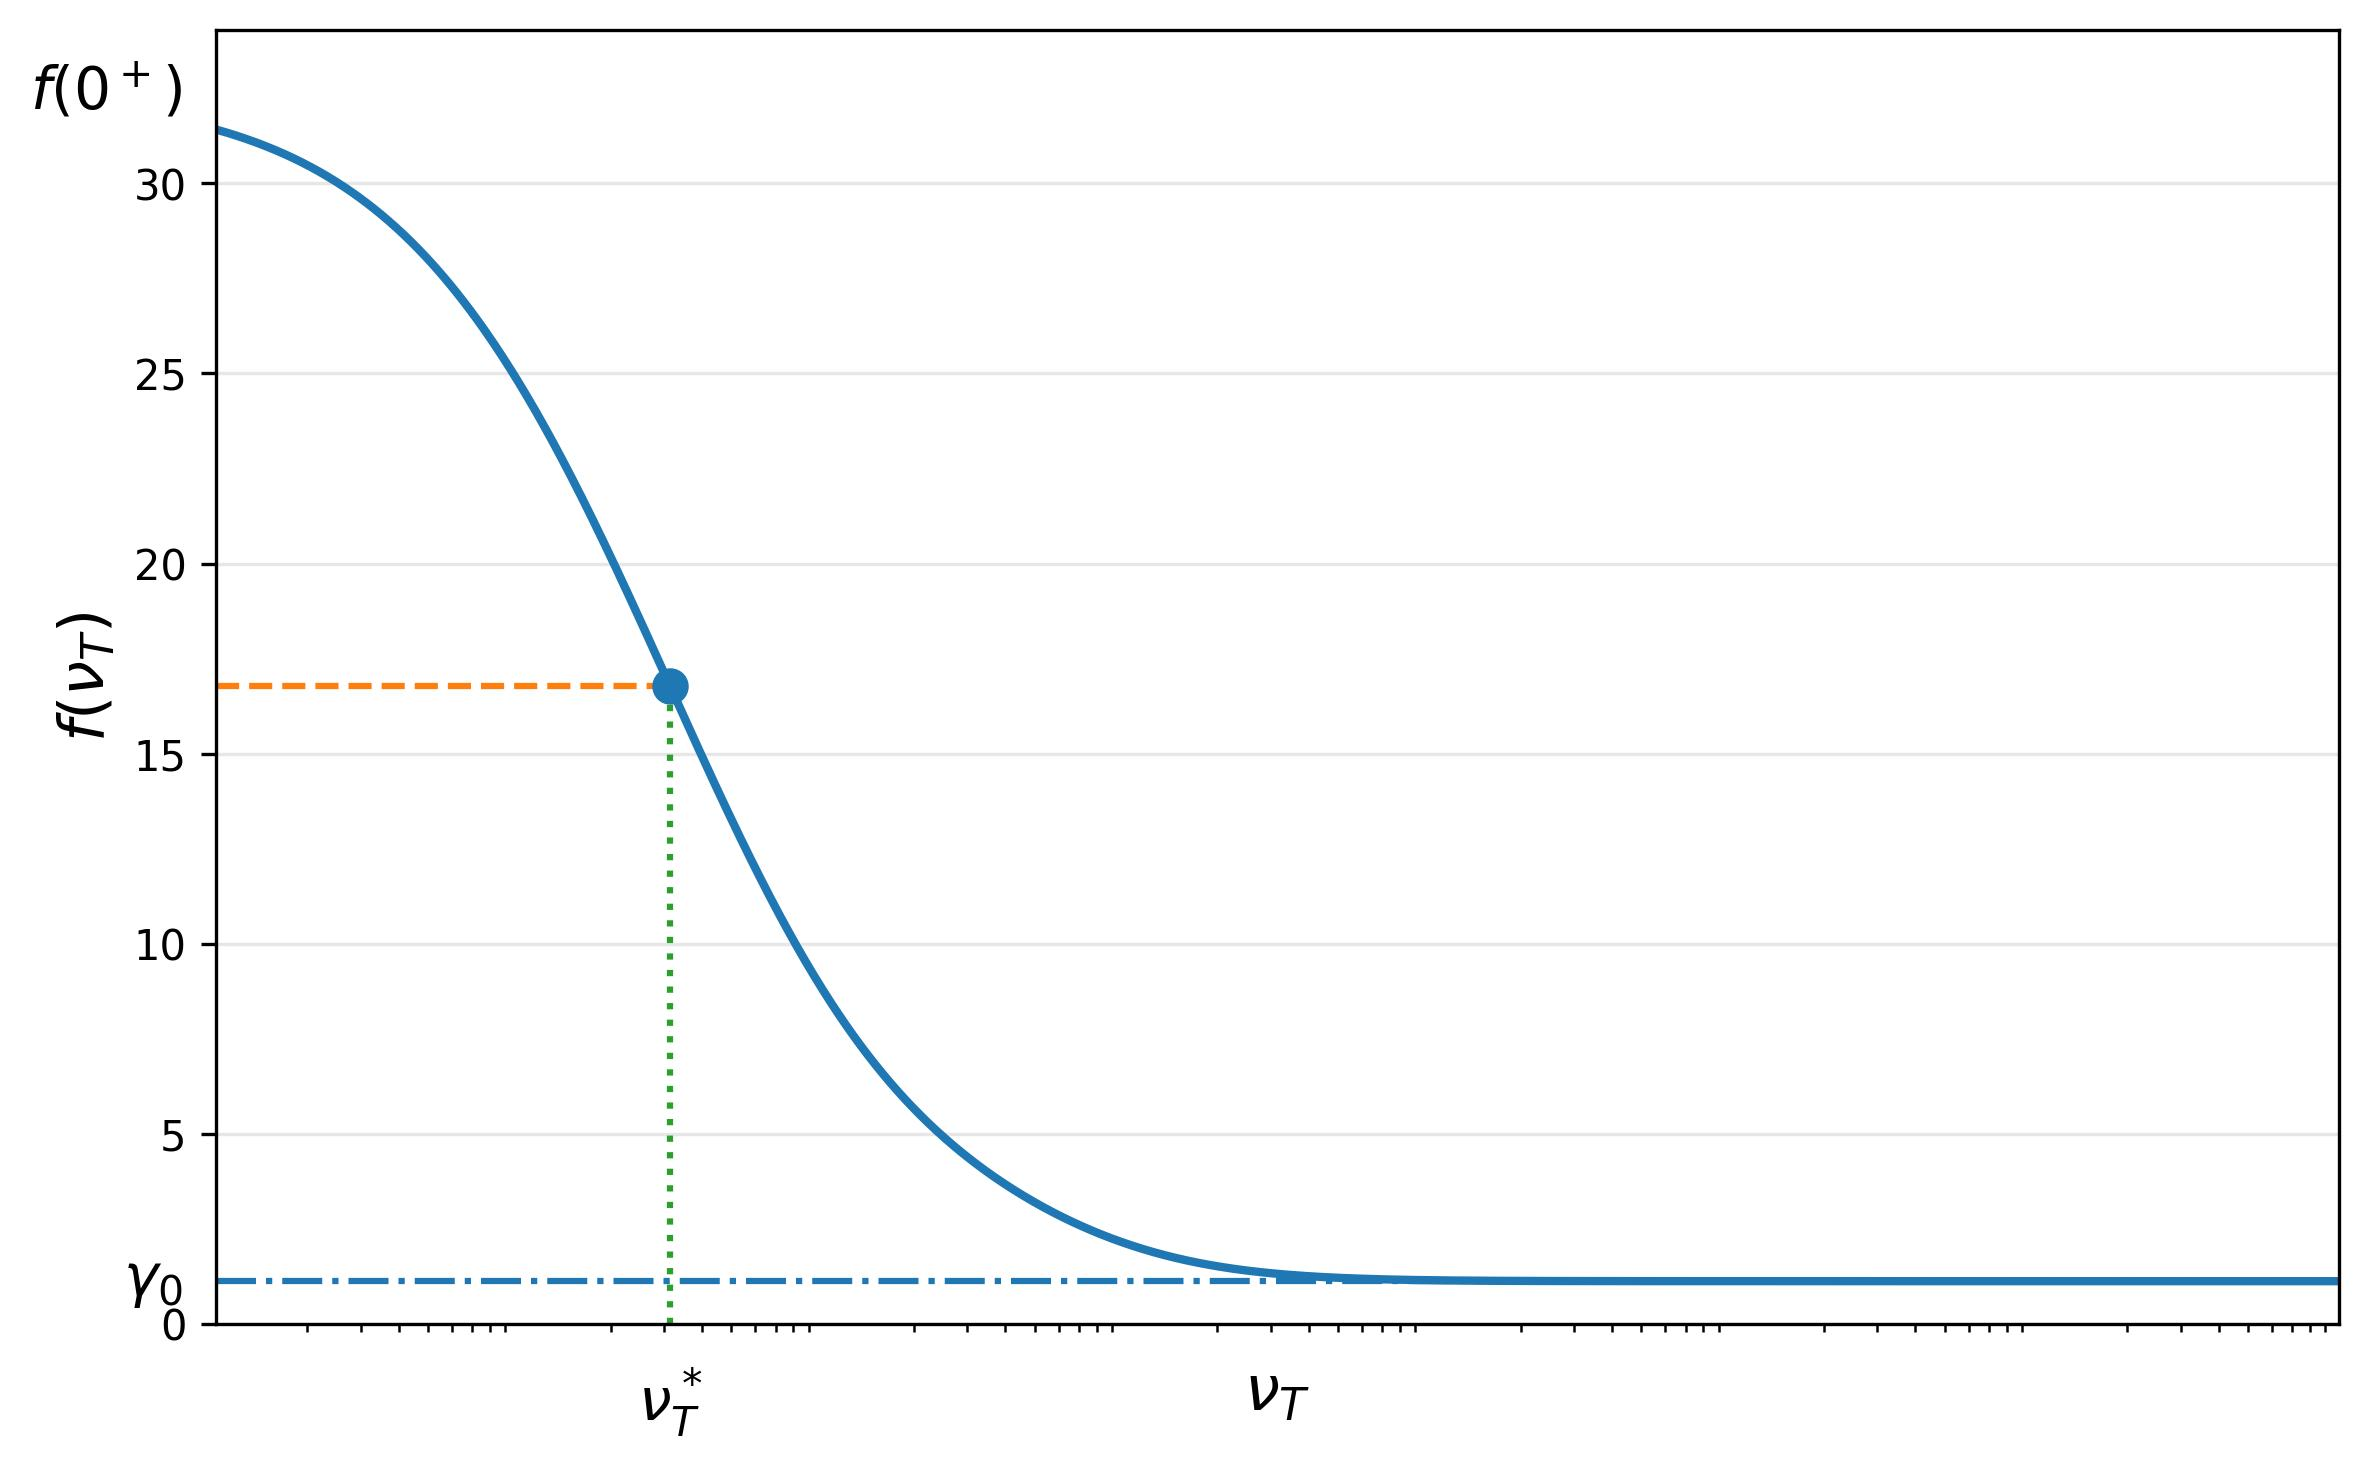
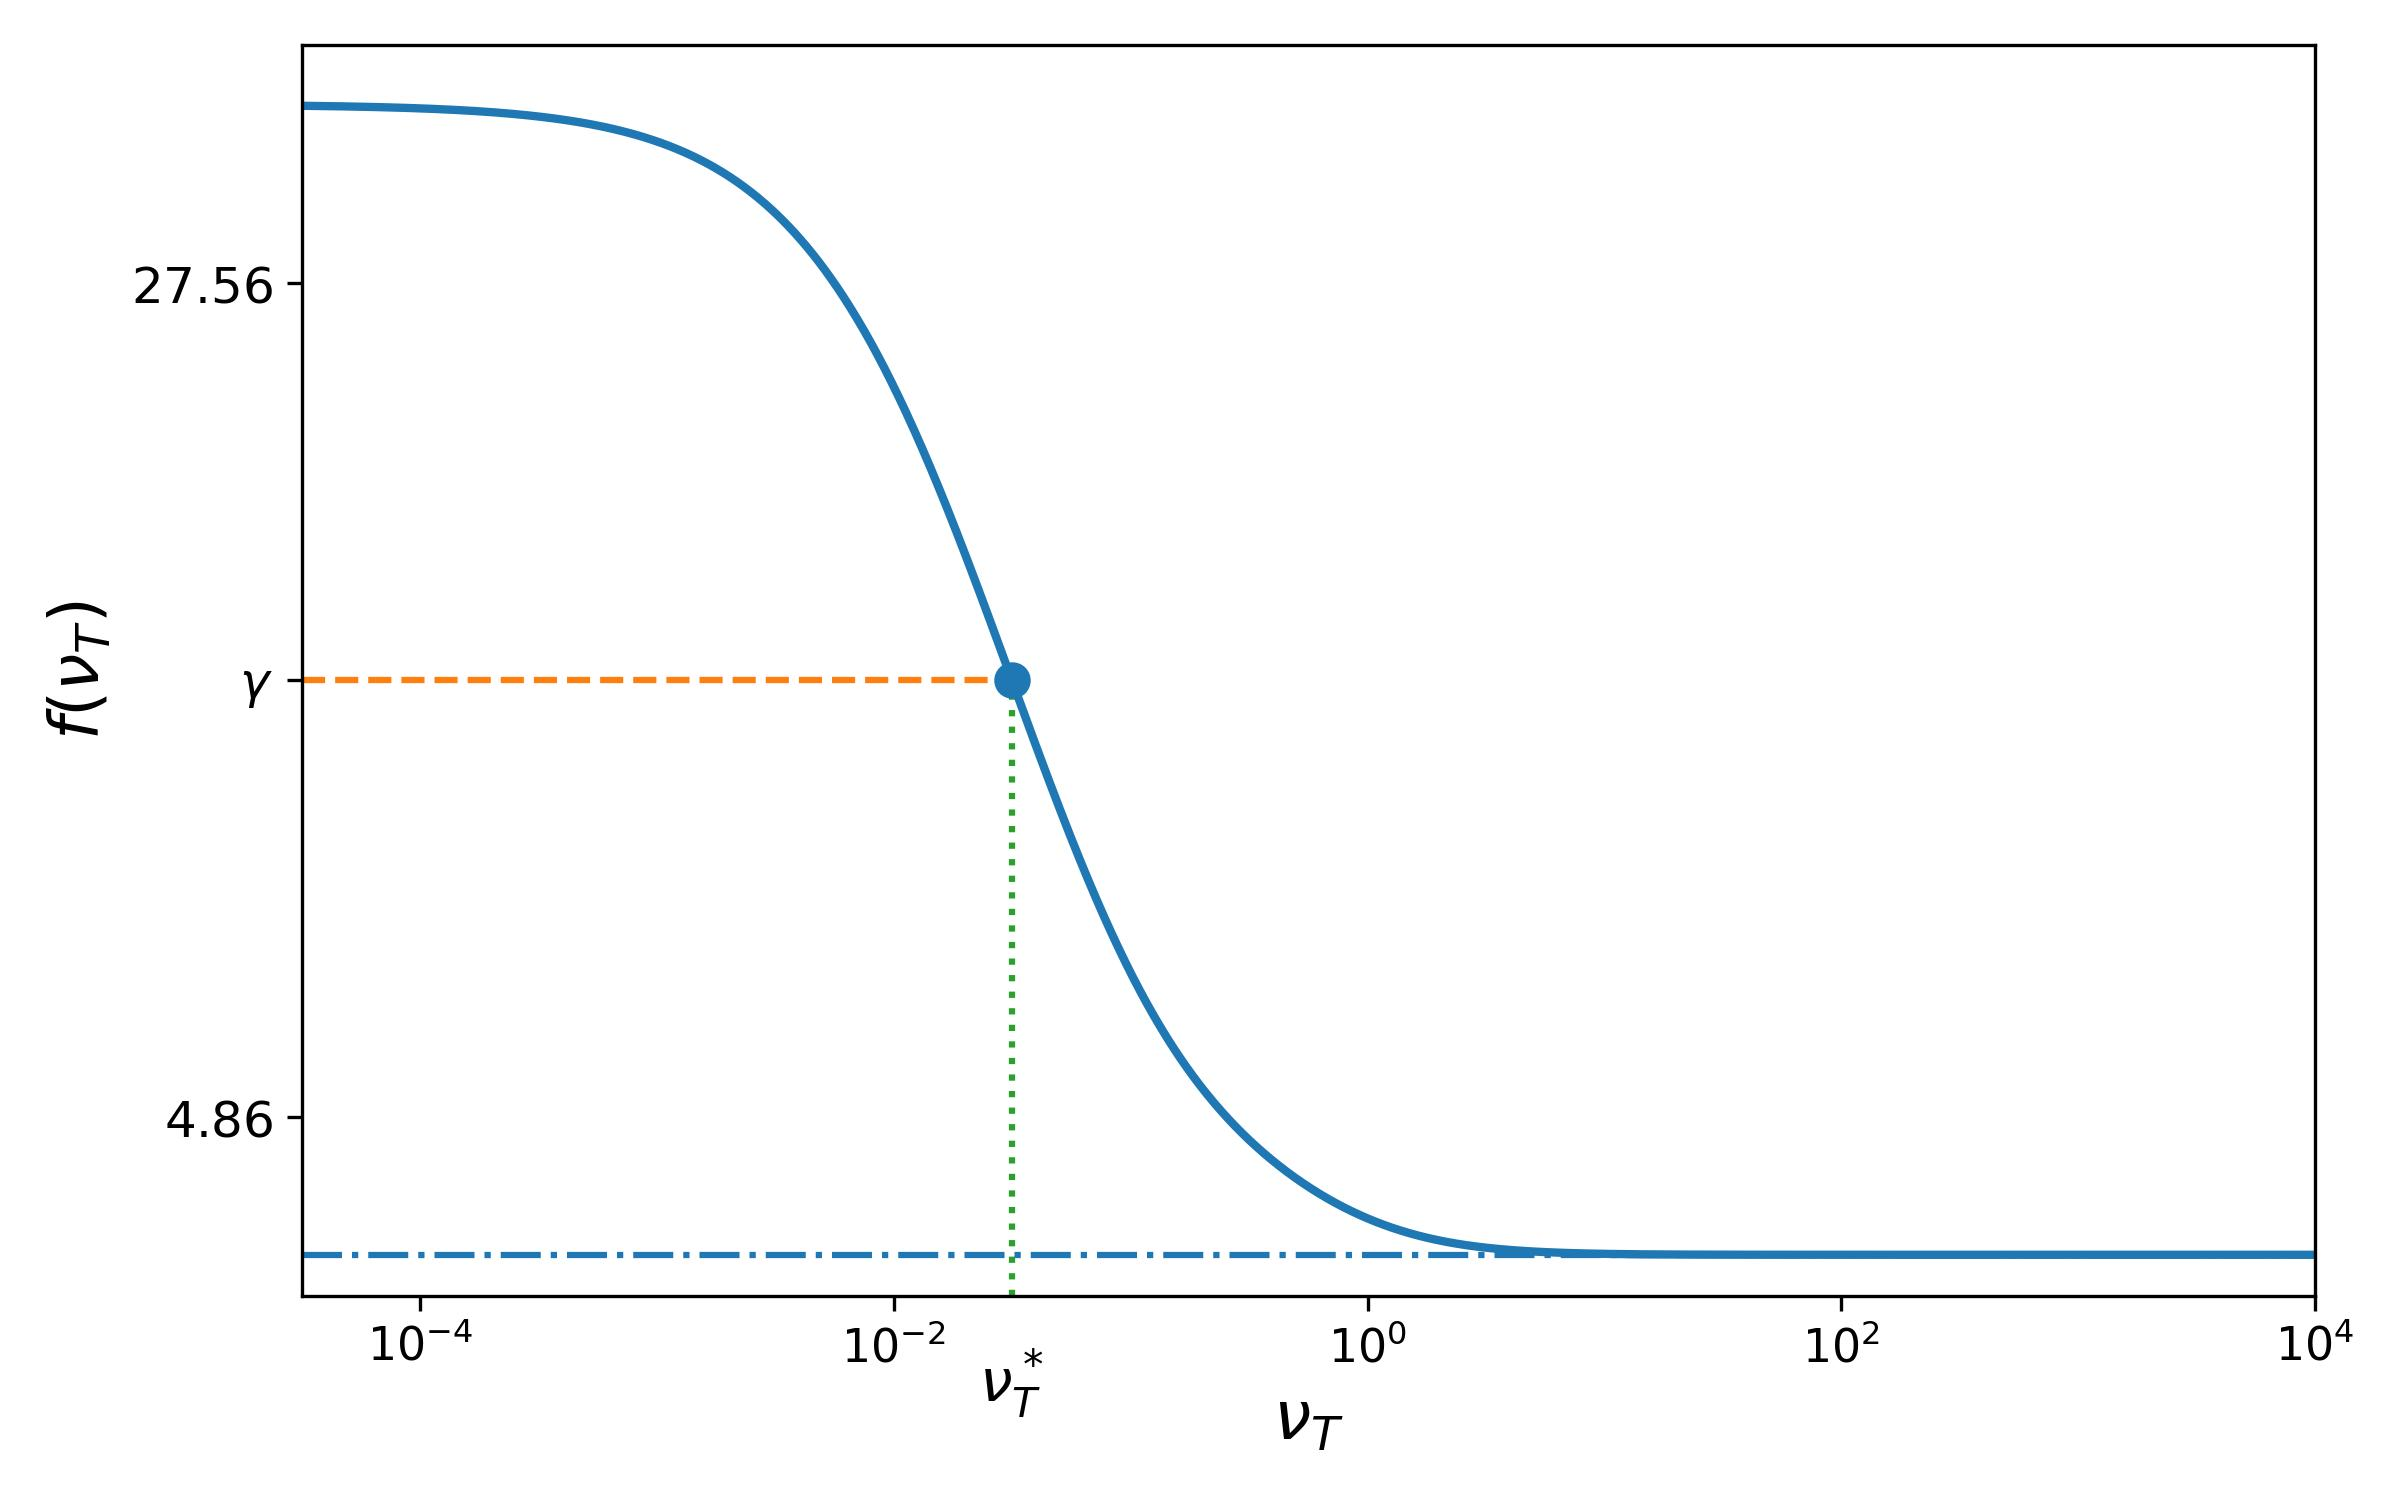
up

diff --git a/data/f.py b/data/f.py
@@ -213,6 +213,7 @@ else:
 
 fig, ax = plt.subplots(figsize=(8, 5))
 
+
 # ------------------------------------------------------------
 # f(nu)
 # ------------------------------------------------------------
@@ -242,11 +243,24 @@ ax.set_ylim(
 
 
 # ------------------------------------------------------------
-# Remove all default x ticks
+# Show a few x-values
 # ------------------------------------------------------------
 
-ax.set_xticks([])
-ax.set_xticklabels([])
+ax.set_xticks([
+    1e-4,
+    1e-2,
+    1,
+    1e2,
+    1e4
+])
+
+ax.set_xticklabels([
+    r"$10^{-4}$",
+    r"$10^{-2}$",
+    r"$10^{0}$",
+    r"$10^{2}$",
+    r"$10^{4}$"
+], fontsize=11)
 
 
 # ============================================================
@@ -304,17 +318,39 @@ if nu_star is not None:
 # 16. Y-axis markings
 # ============================================================
 
+# Candidate intermediate values
+candidates = np.linspace(
+    0.15 * gamma_max,
+    0.85 * gamma_max,
+    8
+)
+
+# Remove values too close to gamma
+candidates = [
+    y for y in candidates
+    if not np.isclose(
+        y,
+        gamma,
+        rtol=0.05,
+        atol=0.01
+    )
+]
+
+# Choose two intermediate values
+y1 = candidates[0]
+y2 = candidates[-1]
+
 ax.set_yticks([
-    gamma_0,
-    gamma,
-    gamma_max
+    y1,
+    y2,
+    gamma
 ])
 
 ax.set_yticklabels([
-    r"$\gamma_0$",
-    r"$\gamma$",
-    r"$f(0^+)$"
-], fontsize=14)
+    rf"${y1:.2f}$",
+    rf"${y2:.2f}$",
+    r"$\gamma$"
+], fontsize=12)
 
 
 # ============================================================
@@ -339,16 +375,16 @@ if nu_star is not None:
 # 18. Mark zero at left side of x-axis
 # ============================================================
 
-ax.annotate(
-    r"$0$",
-    xy=(nu_values[0], 0),
-    xycoords="data",
-    xytext=(0, -12),
-    textcoords="offset points",
-    ha="center",
-    va="top",
-    fontsize=14
-)
+# ax.annotate(
+#     r"$0$",
+#     xy=(nu_values[0], 0),
+#     xycoords="data",
+#     xytext=(0, -12),
+#     textcoords="offset points",
+#     ha="center",
+#     va="top",
+#     fontsize=14
+# )
 
 
 # ============================================================
@@ -371,4 +407,10 @@ ax.set_xlabel(
 # ============================================================
 
 plt.tight_layout()
+
+plt.savefig(
+    "f.jpeg",
+    dpi=300
+)
+
 plt.show()

diff --git a/data/delta_n.py b/data/delta_n.py
@@ -26,9 +26,9 @@ for n in n_list:
     delta_min3.append(delta3)
 
 plt.figure(figsize=(7,5))
-plt.plot(n_list, delta_min1, 'o-', linewidth=2, label ='epsilon = {}'.format(epsilon_1))
-plt.plot(n_list, delta_min2, 'o-', linewidth =2, label ='epsilon = {}'.format(epsilon_2))
-plt.plot(n_list, delta_min3, 'o-', linewidth =2, label ='epsilon = {}'.format(epsilon_3))
+plt.plot(n_list, delta_min1, 'o-', linewidth=2, label =r'$\epsilon$ = {}'.format(epsilon_1))
+plt.plot(n_list, delta_min2, 'o-', linewidth =2, label =r'$\epsilon$ = {}'.format(epsilon_2))
+plt.plot(n_list, delta_min3, 'o-', linewidth =2, label =r'$\epsilon$ = {}'.format(epsilon_3))
 plt.xlabel(r"$n$")
 plt.ylabel(r"Minimum feasible $\delta$")
 plt.grid(True)
@@ -50,9 +50,9 @@ for l in lambda_list:
     delta_min3.append(delta3)
 
 plt.figure(figsize=(7,5))
-plt.plot(lambda_list, delta_min1, 'o-', linewidth=2, label ='epsilon = {}'.format(epsilon_1))
-plt.plot(lambda_list, delta_min2, 'o-', linewidth =2, label ='epsilon = {}'.format(epsilon_2))
-plt.plot(lambda_list, delta_min3, 'o-', linewidth =2, label ='epsilon = {}'.format(epsilon_3))
+plt.plot(lambda_list, delta_min1, 'o-', linewidth=2, label =r'$\epsilon$ = {}'.format(epsilon_1))
+plt.plot(lambda_list, delta_min2, 'o-', linewidth =2, label =r'$\epsilon$ = {}'.format(epsilon_2))
+plt.plot(lambda_list, delta_min3, 'o-', linewidth =2, label =r'$\epsilon$ = {}'.format(epsilon_3))
 plt.xlabel(r"$\lambda$")
 plt.ylabel(r"Minimum feasible $\delta$")
 plt.grid(True)
